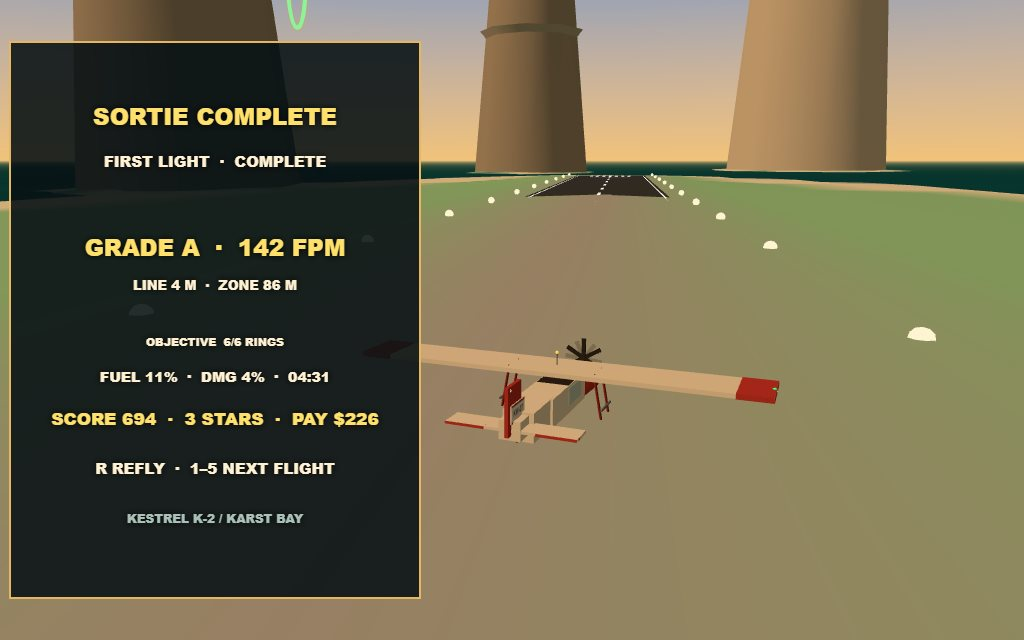
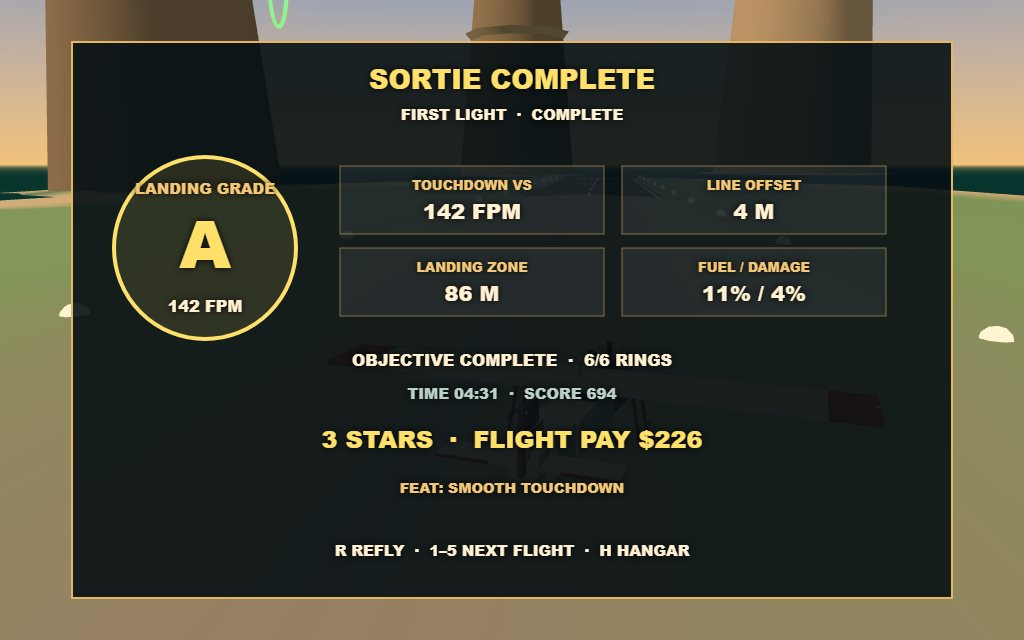
Phase 3: polish

diff --git a/game/src/screens.js b/game/src/screens.js
@@ -59,8 +59,8 @@ function drawMissionBoard(ctx, selected, hangar) {
     text(ctx, `${i + 1}`, 130, y + 29, 16, '#ffe06a');
     missionIcon(ctx, i, 165, y + 30);
     text(ctx, item.title.toUpperCase(), 198, y + 17, 16, '#fff1d2', 'left');
-    text(ctx, item.objective.toUpperCase(), 198, y + 42, 11, '#b9d1c6', 'left');
-    text(ctx, `${item.difficulty}  ·  BEST ${hangar.bestStars[item.id] || 0}/3  ·  $${item.pay}`, 894, y + 29, 11, '#f4c777', 'right');
+    text(ctx, item.objective.toUpperCase(), 198, y + 42, 12, '#b9d1c6', 'left');
+    text(ctx, `${item.difficulty}  ·  BEST ${hangar.bestStars[item.id] || 0}/3  ·  $${item.pay}`, 894, y + 29, 12, '#f4c777', 'right');
   }
   text(ctx, 'W/S PITCH  ·  A/D BANK  ·  Q/E RUDDER  ·  SHIFT/CTRL THROTTLE  ·  F FLAPS  ·  G BRAKES', 512, 555, 11);
   text(ctx, 'C COCKPIT  ·  P PAUSE  ·  SPACE MAIL DROP  ·  H HANGAR', 512, 578, 11, '#f4c777');
@@ -68,31 +68,59 @@ function drawMissionBoard(ctx, selected, hangar) {
 
 function drawDebrief(ctx, mission) {
   const success = mission.status === 'complete';
-  ctx.fillStyle = 'rgba(7, 17, 21, .88)';
-  ctx.fillRect(10, 42, 410, 556);
+  ctx.fillStyle = 'rgba(7, 17, 21, .9)';
+  ctx.fillRect(72, 42, 880, 556);
   ctx.strokeStyle = '#e5b763';
   ctx.lineWidth = 2;
-  ctx.strokeRect(10, 42, 410, 556);
-  const center = 215;
-  text(ctx, success ? 'SORTIE COMPLETE' : 'FLIGHT DEBRIEF', center, 119, 23, success ? '#ffe06a' : '#ff8060');
+  ctx.strokeRect(72, 42, 880, 556);
+  text(ctx, success ? 'SORTIE COMPLETE' : 'FLIGHT DEBRIEF', 512, 82, 27, success ? '#ffe06a' : '#ff8060');
   const item = MISSIONS.find((candidate) => candidate.id === mission.id) || MISSIONS[0];
-  text(ctx, `${item.title.toUpperCase()}  ·  ${mission.status.toUpperCase()}`, center, 163, 15);
-  if (mission.status === 'crashed') text(ctx, `CRASHED: ${mission.crashReason || 'AIRCRAFT DOWN'}`, center, 211, 17, '#ff7154');
-  if (mission.landing) {
-    text(ctx, `GRADE ${mission.landing.grade}  ·  ${mission.landing.fpm} FPM`, center, 250, 23, '#ffe06a');
-    text(ctx, `LINE ${mission.landing.offset} M  ·  ZONE ${mission.landing.zone} M`, center, 286, 13);
+  text(ctx, `${item.title.toUpperCase()}  ·  ${mission.status.toUpperCase()}`, 512, 116, 15);
+  if (mission.status === 'crashed') text(ctx, `CRASHED: ${mission.crashReason || 'AIRCRAFT DOWN'}`, 512, 150, 17, '#ff7154');
+
+  const landing = mission.landing;
+  ctx.fillStyle = 'rgba(255, 224, 106, .12)';
+  ctx.beginPath();
+  ctx.arc(205, 248, 91, 0, Math.PI * 2);
+  ctx.fill();
+  ctx.strokeStyle = success ? '#ffe06a' : '#ff8060';
+  ctx.lineWidth = 4;
+  ctx.stroke();
+  text(ctx, 'LANDING GRADE', 205, 190, 15, '#f4c777');
+  text(ctx, landing ? landing.grade : '--', 205, 250, 66, success ? '#ffe06a' : '#ff8060');
+  text(ctx, landing ? `${landing.fpm} FPM` : 'NO TOUCHDOWN', 205, 308, 16);
+
+  const stats = mission.stats || { fuel: 0, damage: 0, elapsed: 0 };
+  const metrics = [
+    ['TOUCHDOWN VS', landing ? `${landing.fpm} FPM` : '-- FPM'],
+    ['LINE OFFSET', landing ? `${landing.offset} M` : '-- M'],
+    ['LANDING ZONE', landing ? `${landing.zone} M` : '-- M'],
+    ['FUEL / DAMAGE', `${stats.fuel}% / ${stats.damage}%`],
+  ];
+  for (let i = 0; i < metrics.length; i += 1) {
+    const x = 340 + (i % 2) * 282;
+    const y = 166 + Math.floor(i / 2) * 82;
+    ctx.fillStyle = 'rgba(255,255,255,.07)';
+    ctx.fillRect(x, y, 264, 68);
+    ctx.strokeStyle = 'rgba(229,183,99,.55)';
+    ctx.lineWidth = 1;
+    ctx.strokeRect(x, y, 264, 68);
+    text(ctx, metrics[i][0], x + 132, y + 20, 13, '#f4c777');
+    text(ctx, metrics[i][1], x + 132, y + 47, 21, '#fff1d2');
   }
+
   const objective = mission.goal === 'rings' ? `${mission.rings}/6 RINGS`
     : mission.goal === 'mail' ? `${mission.drops}/3 MAIL DROPS`
       : mission.goal === 'rescue' ? (mission.rescued ? 'BOAT MARKED' : 'BOAT NOT MARKED')
         : mission.goal === 'cargo' ? 'FISH ICE TO TERRACE'
           : 'SQUALL LANDING · LAGOON';
-  text(ctx, `OBJECTIVE  ${objective}`, center, 343, 11);
-  const stats = mission.stats || { fuel: 0, damage: 0, elapsed: 0 };
-  text(ctx, `FUEL ${stats.fuel}%  ·  DMG ${stats.damage}%  ·  ${String(Math.floor(stats.elapsed / 60)).padStart(2, '0')}:${String(stats.elapsed % 60).padStart(2, '0')}`, center, 378, 14);
-  text(ctx, `SCORE ${mission.score}  ·  ${mission.stars || 0} STARS  ·  PAY $${mission.pay}`, center, 420, 17, '#ffe06a');
-  text(ctx, 'R REFLY  ·  1–5 NEXT FLIGHT', center, 470, 15);
-  text(ctx, 'KESTREL K-2 / KARST BAY', center, 520, 12, '#a9c1b6');
+  const elapsed = `${String(Math.floor(stats.elapsed / 60)).padStart(2, '0')}:${String(stats.elapsed % 60).padStart(2, '0')}`;
+  text(ctx, `OBJECTIVE COMPLETE  ·  ${objective}`, 512, 362, 16);
+  text(ctx, `TIME ${elapsed}  ·  SCORE ${mission.score}`, 512, 395, 15, '#b9d1c6');
+  text(ctx, `${mission.stars || 0} STARS  ·  FLIGHT PAY $${mission.pay}`, 512, 441, 24, '#ffe06a');
+  const feat = landing && landing.grade === 'A' ? 'FEAT: SMOOTH TOUCHDOWN' : `FEAT: ${objective}`;
+  text(ctx, feat, 512, 489, 14, '#f4c777');
+  text(ctx, 'R REFLY  ·  1–5 NEXT FLIGHT  ·  H HANGAR', 512, 552, 15);
 }
 
 export function drawScreen(canvas, screen, mission, selected = 1, hangar = { credits: 0, tank: 0, engine: 0, gear: 0, bestStars: {} }) {

diff --git a/game/src/shots.js b/game/src/shots.js
@@ -4,7 +4,7 @@
 import { FIRST_LIGHT_RINGS, HARBOUR, STEP, WORLD, clamp, wrapPi } from './config.js';
 import { createMissionState } from './mission-runner.js';
 
-const COVER_RING = 4;
+const COVER_RING = 3;
 
 function aimAt(plane, point, altitude) {
   const dx = point.x - plane.x;
@@ -23,17 +23,16 @@ function aimAt(plane, point, altitude) {
 
 function placeCover(session) {
   const plane = session.flight;
-  const yaw = -0.42;
   const speed = 39;
-  plane.x = 120;
+  plane.x = 30;
   plane.y = 60;
-  plane.z = 270;
-  plane.yaw = yaw;
+  plane.z = 300;
+  plane.yaw = -0.02;
   plane.pitch = 0.04;
   plane.roll = -0.36;
-  plane.vx = Math.sin(yaw) * speed;
+  plane.vx = Math.sin(plane.yaw) * speed;
   plane.vy = -1.1;
-  plane.vz = -Math.cos(yaw) * speed;
+  plane.vz = -Math.cos(plane.yaw) * speed;
   plane.throttle = 0.62;
   plane.rpm = 0.68;
   plane.fuel = 0.64;
@@ -96,7 +95,7 @@ export function stageShot(name, session) {
   if (shot === 'cockpit') {
     placeFinal(session);
     flyToward(session, 36, { x: HARBOUR.x, z: HARBOUR.z }, 40);
-    session.objective = { title: 'FIRST LIGHT', line: 'HARBOUR FIELD · FINAL 0.4 NM', timer: '00:42' };
+    session.objective = { title: 'FIRST LIGHT', line: 'HARBOUR FIELD · FINAL 0.1 NM', timer: '00:42' };
   } else if (shot === 'missions') {
     flyToward(session, 50, FIRST_LIGHT_RINGS[COVER_RING], 56);
     session.mission = createMissionState('ice-market');
@@ -130,11 +129,18 @@ export function stageShot(name, session) {
     session.mission.stats = { fuel: 11, damage: 4, elapsed: 271 };
     session.screen = 'debrief';
   } else {
-    flyToward(session, 50, FIRST_LIGHT_RINGS[COVER_RING], 56);
+    const coverRing = session.rings.list[COVER_RING];
+    coverRing.x = 18;
+    coverRing.y = 50;
+    coverRing.z = 12;
+    coverRing.group.position.set(coverRing.x, coverRing.y, coverRing.z);
+    const followingRing = session.rings.list[COVER_RING + 1];
+    if (followingRing) followingRing.group.visible = false;
+    flyToward(session, 50, coverRing, 56);
     pinApproach(session);
     session.objective = {
-      title: 'FIRST LIGHT',
-      line: 'RING 5 / 6  ·  THEN LAND',
+      title: 'MISSION 1 · FIRST LIGHT',
+      line: 'RING 4/6 - THEN LAND\nAT HARBOUR FIELD',
       timer: '02:46',
     };
   }

diff --git a/game/src/hud.js b/game/src/hud.js
@@ -177,8 +177,15 @@ function meter(ctx, x, y, w, h, fraction, title, warn) {
 function objectivePanel(ctx, x, y, w, h, objective) {
   panel(ctx, x, y, w, h);
   label(ctx, objective.title, x + 12, y + 24, 22, '#ffe14a', 'left');
-  label(ctx, objective.line, x + 12, y + 54, 18, '#fff8ea', 'left');
-  label(ctx, objective.timer, x + 12, y + 84, 26, '#fff8ea', 'left');
+  const lines = objective.line.split('\n');
+  if (lines.length > 1) {
+    label(ctx, lines[0], x + 12, y + 52, 14, '#fff8ea', 'left');
+    label(ctx, lines[1], x + 12, y + 70, 14, '#fff8ea', 'left');
+    label(ctx, objective.timer, x + 12, y + 93, 21, '#fff8ea', 'left');
+  } else {
+    label(ctx, objective.line, x + 12, y + 54, 18, '#fff8ea', 'left');
+    label(ctx, objective.timer, x + 12, y + 84, 26, '#fff8ea', 'left');
+  }
 }
 
 function waypoint(ctx, x, y, plane, ring) {

diff --git a/game/src/camera-rig.js b/game/src/camera-rig.js
@@ -46,14 +46,14 @@ export function updateCameraRig(rig, plane, dt) {
     const reach = 90;
     rig.camera.lookAt(
       eyeX + aim.fx * reach,
-      eyeY + Math.sin(plane.pitch) * reach + rig.lookPitch * 8,
+      eyeY + Math.sin(plane.pitch) * reach - 7 + rig.lookPitch * 8,
       eyeZ + aim.fz * reach,
     );
     return;
   }
 
-  const back = 25;
-  const up = 8.5;
+  const back = 19;
+  const up = 7;
   const side = rig.lookYaw * 14;
   const desiredX = plane.x - aim.fx * back + aim.rx * side;
   const desiredY = plane.y + up + rig.lookPitch * 8;

diff --git a/NOTES.md b/NOTES.md
@@ -14,3 +14,11 @@ Best-star records persist per mission and appear on the selection cards.
 The cockpit shot now faces Harbour Field final with six lit dials; the debrief shot shows a completed First Light landing.
 Replaced all four deterministic screenshots and verified each image visually at 1024x640.
 All five mission completion paths passed focused checks; browser boot, module parsing, and byte-stable output dossier passed locally.
+
+Phase 3: chase framing is tighter and the First Light cover stages ring 4/6 on Harbour's approach.
+The cover HUD wraps the mission objective and keeps the runway, target ring, aircraft, and key readouts in frame.
+The cockpit scene presents six lit gauges on Harbour final; all five mission goals remain visible on the board.
+The debrief now uses a prominent landing-grade badge, unit-labelled metrics, objective result, stars, pay, and feat.
+Replaced all four images with fresh 1024x640 game renders and inspected each; all JPEGs are under 256 KiB.
+README controls now include mouse-wheel throttle and mute, alongside the full mission list and local run commands.
+Verified every game module parses and `main.ts` emits a byte-stable dossier, game index, and four output screenshots.

diff --git a/README.md b/README.md
@@ -8,7 +8,7 @@ Limestone Wings is a low-altitude bush-flying game over a warm, original karst b
 
 ## Controls
 
-Press 1–5 to choose a mission and Enter to launch. W/S pitch, A/D roll, Q/E rudder, Shift/Ctrl throttle, F flaps, G brakes, C chase/cockpit view, mouse drag look, P pause, Space drops mail, H opens the hangar, and R restarts.
+Press 1–5 to choose a mission and Enter to launch. W/S pitch, A/D roll, Q/E rudder, Shift/Ctrl or mouse wheel throttle, F flaps, G brakes, C chase/cockpit view, mouse drag look, P pause, M mute, Space drops mail, H opens the hangar, and R restarts.
 
 ## Missions
 
